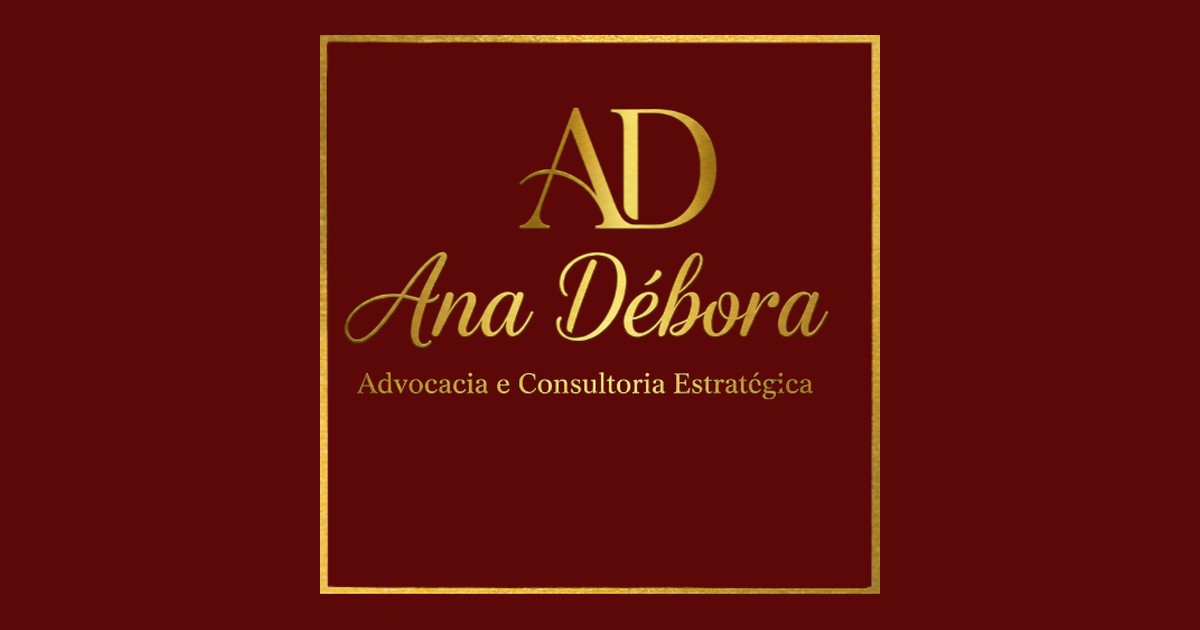
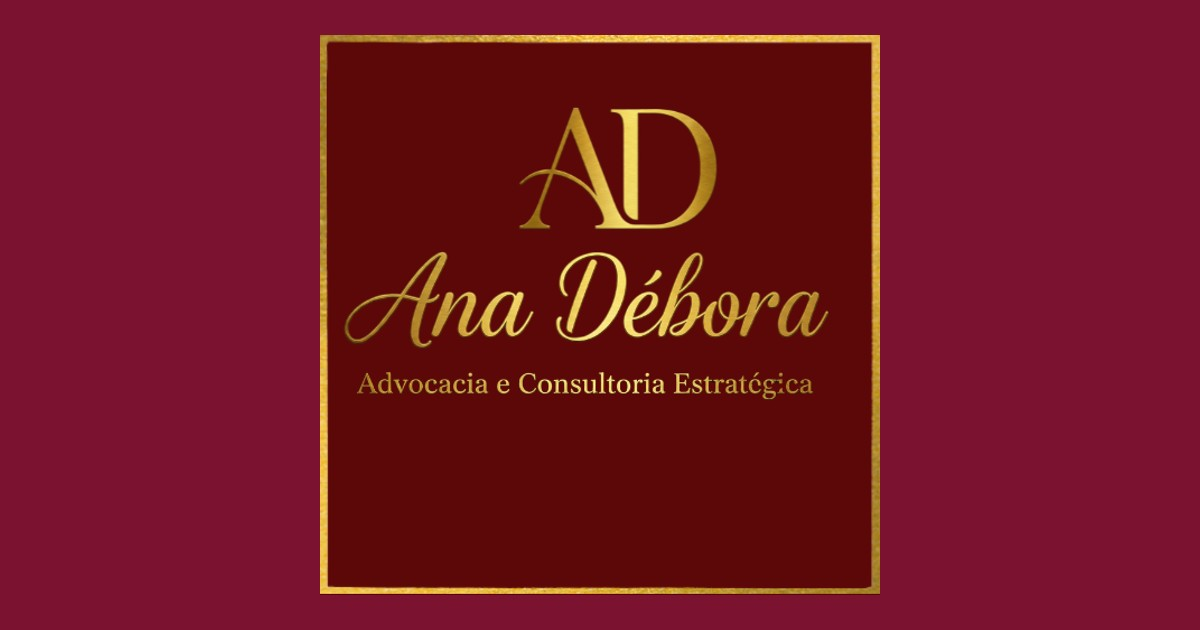
Vinho um pouco mais claro e mais bordô no site da advocacia
Claude-Session: https://claude.ai/code/session_01L5GURvRvzL4QduCx8qPwB7

diff --git a/advocacia/assets/css/advocacia.css b/advocacia/assets/css/advocacia.css
@@ -942,3 +942,13 @@ ul, ol { margin: 0; padding: 0; }
 .topo .marca-ad { --alt: 46px; }
 .rodape .marca-ad { --alt: 52px; }
 .marca-brilho { background: linear-gradient(105deg, transparent, rgba(255, 240, 200, .35), transparent); mix-blend-mode: screen; }
+
+/* Vinho um pouco mais claro, puxado para o bordô (menos marrom) */
+:root { --vinho: #7a1230; --vermelho: #7a1230; --vermelho-escuro: #5c0d24; --noite-2: #4e0b20; --brilho: 122 18 48; --brilho-2: 122 18 48; --whats: #7a1230; --c1: #7a1230; --c3: #5c0d24; --c5: #7a1230; --vermelho-fundo: #f8eef1; }
+.btn-primario:hover, .btn-whats:hover { background: #5c0d24; }
+.hero { background: linear-gradient(150deg, #0c0a0b 0%, #2a0913 45%, #5c0d24 100%); }
+.secao-tech { background: linear-gradient(200deg, #5c0d24 0%, #34081a 55%, #0c0a0b 100%); }
+.letreiro { background: linear-gradient(90deg, #0c0a0b, #7a1230, #5c0d24, #7a1230, #0c0a0b); background-size: 300% 100%; }
+.chamada { background: linear-gradient(120deg, #7a1230, #5c0d24, #0c0a0b, #5c0d24, #7a1230); background-size: 300% 300%; }
+.marca-ad { background: #7a1230; }
+.hero .retrato-moldura { background: #7a1230; }

diff --git a/advocacia/index.html b/advocacia/index.html
@@ -29,8 +29,8 @@
 
   <link rel="preload" href="/assets/fonts/inter.woff2" as="font" type="font/woff2" crossorigin />
   <link rel="preload" href="/assets/fonts/playfair-600-normal.woff2" as="font" type="font/woff2" crossorigin />
-  <link rel="stylesheet" href="/assets/css/advocacia.css?v=20260928c" />
-  <script src="/assets/js/advocacia.js?v=20260928c" defer></script>
+  <link rel="stylesheet" href="/assets/css/advocacia.css?v=20260928d" />
+  <script src="/assets/js/advocacia.js?v=20260928d" defer></script>
 
   <!-- Dados estruturados: ajudam o Google a entender o escritório, a profissional e as perguntas frequentes -->
   <script type="application/ld+json">

diff --git a/advocacia/404.html b/advocacia/404.html
@@ -13,8 +13,8 @@
   <link rel="apple-touch-icon" href="/assets/img/apple-touch-icon.png" />
   <link rel="manifest" href="/site.webmanifest" />
   <link rel="preload" href="/assets/fonts/inter.woff2" as="font" type="font/woff2" crossorigin />
-  <link rel="stylesheet" href="/assets/css/advocacia.css?v=20260928c" />
-  <script src="/assets/js/advocacia.js?v=20260928c" defer></script>
+  <link rel="stylesheet" href="/assets/css/advocacia.css?v=20260928d" />
+  <script src="/assets/js/advocacia.js?v=20260928d" defer></script>
 </head>
 <body>
 

diff --git a/advocacia/politica-de-privacidade.html b/advocacia/politica-de-privacidade.html
@@ -13,8 +13,8 @@
   <link rel="apple-touch-icon" href="/assets/img/apple-touch-icon.png" />
   <link rel="manifest" href="/site.webmanifest" />
   <link rel="preload" href="/assets/fonts/inter.woff2" as="font" type="font/woff2" crossorigin />
-  <link rel="stylesheet" href="/assets/css/advocacia.css?v=20260928c" />
-  <script src="/assets/js/advocacia.js?v=20260928c" defer></script>
+  <link rel="stylesheet" href="/assets/css/advocacia.css?v=20260928d" />
+  <script src="/assets/js/advocacia.js?v=20260928d" defer></script>
 </head>
 <body>
 
